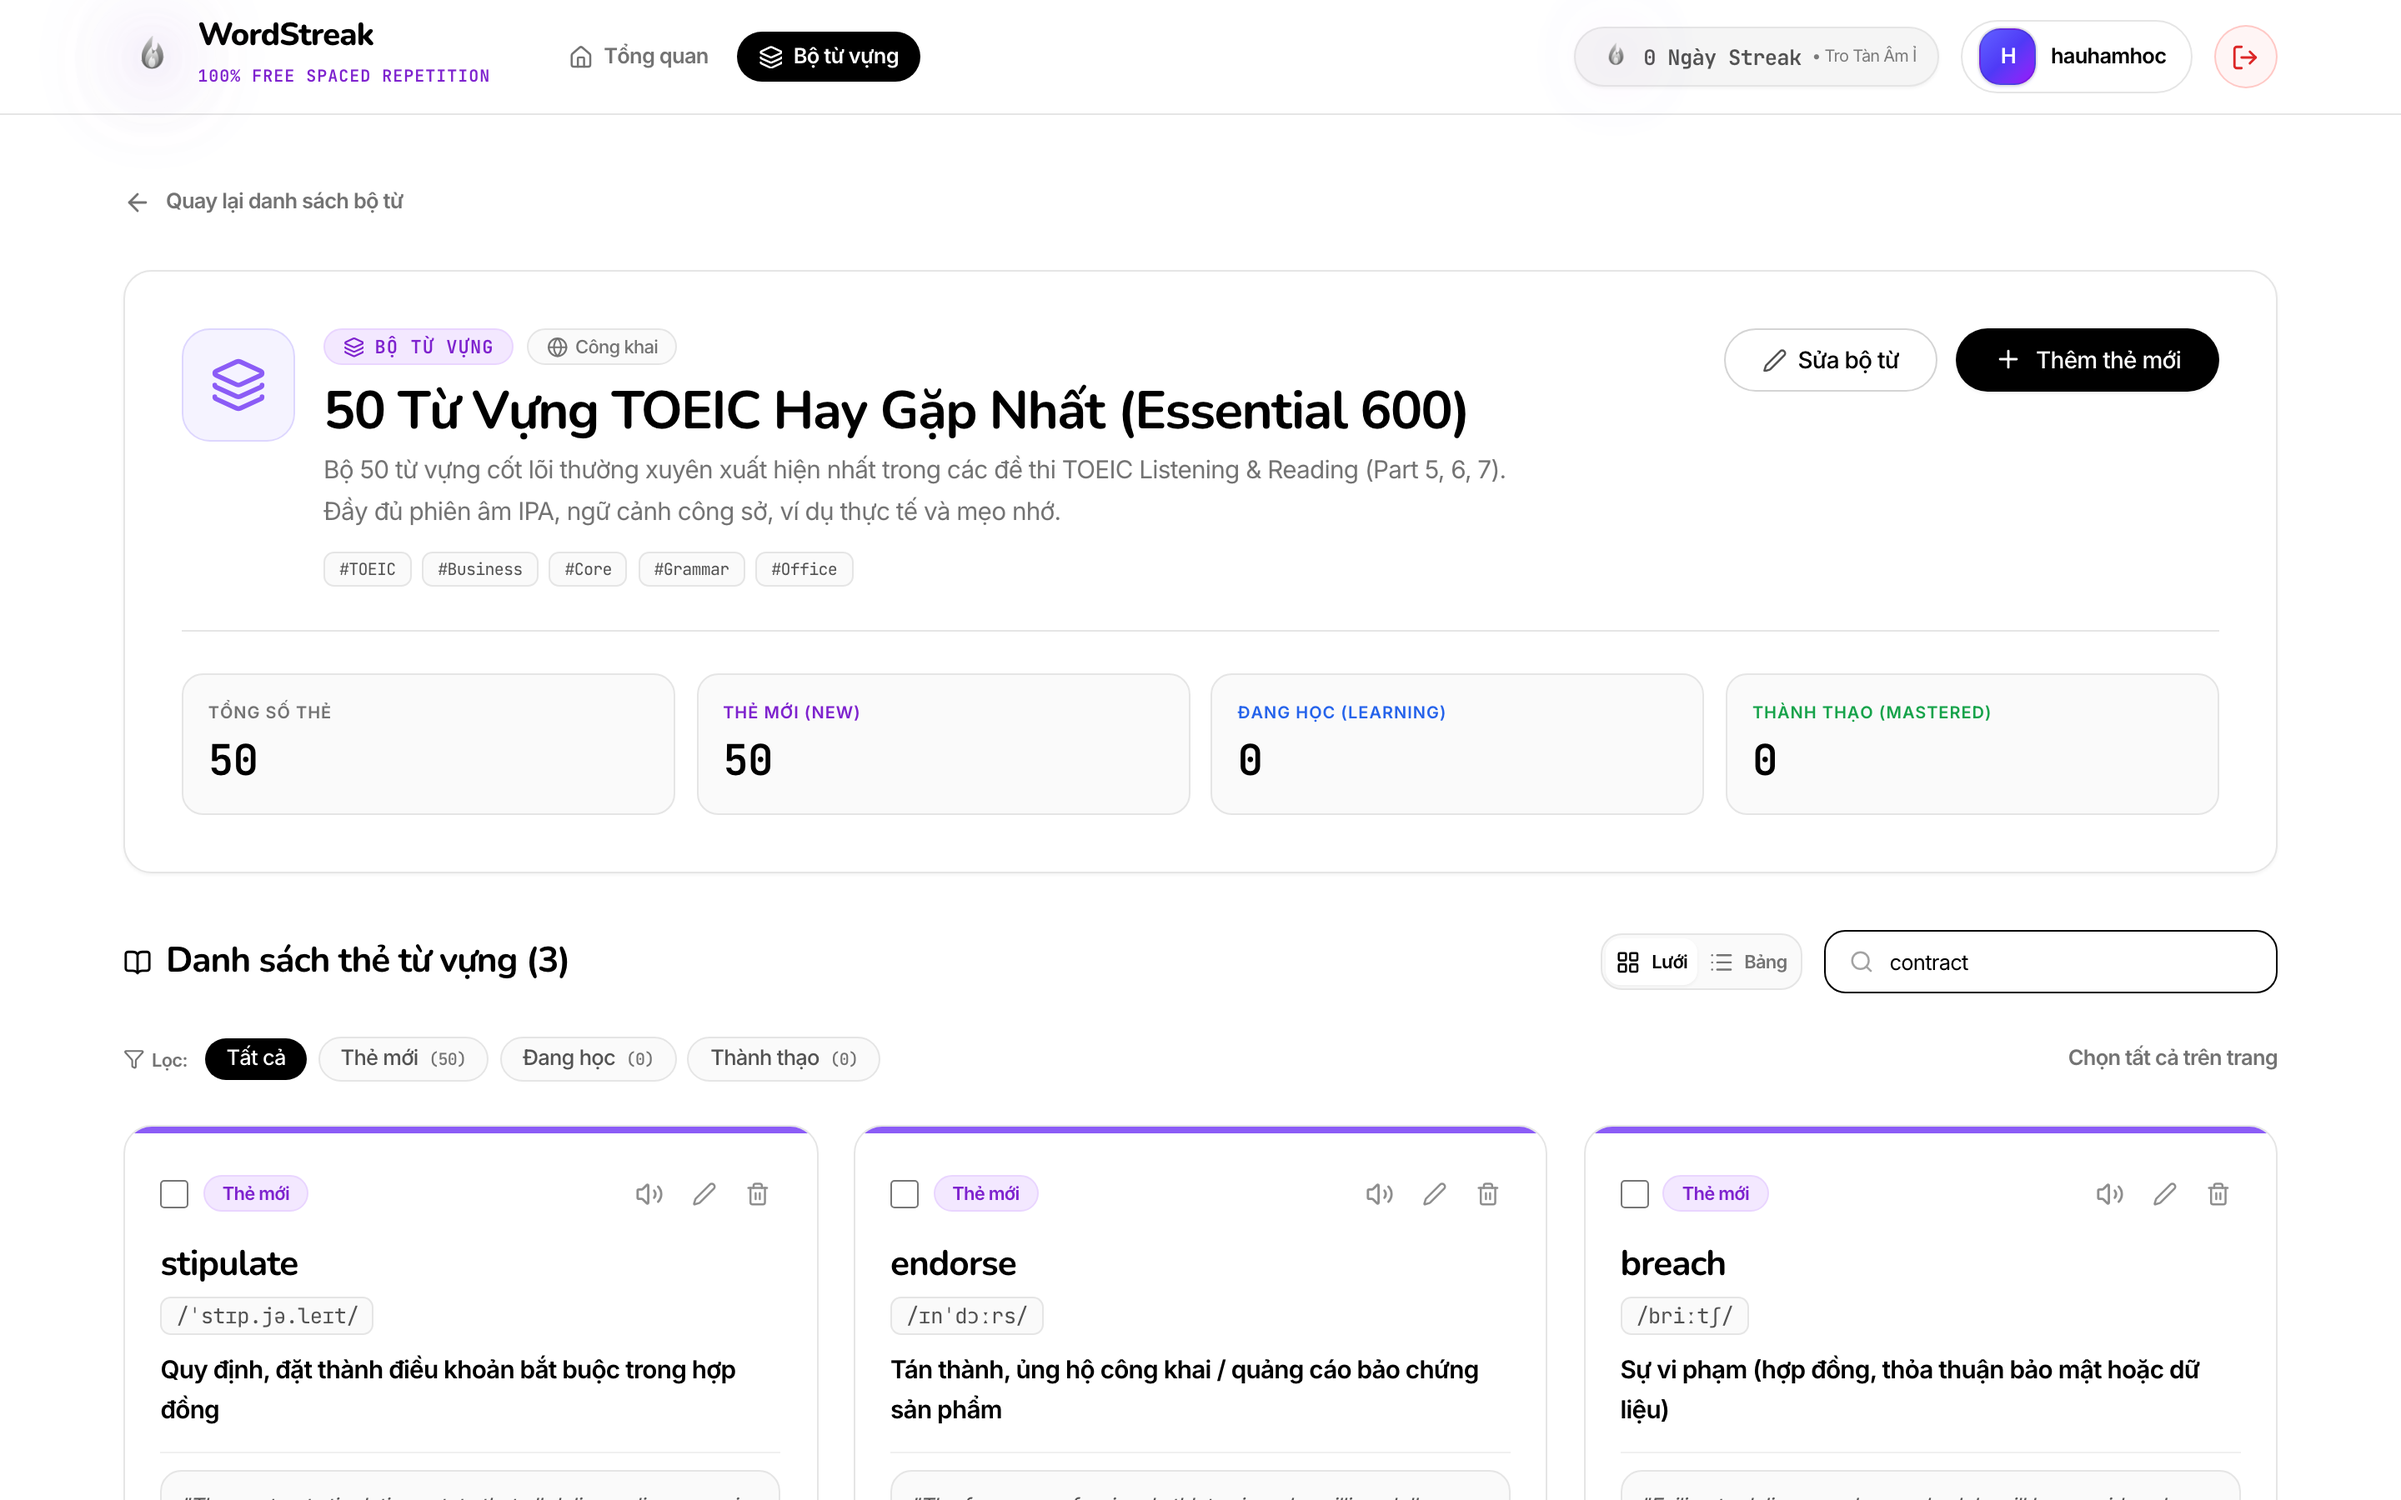
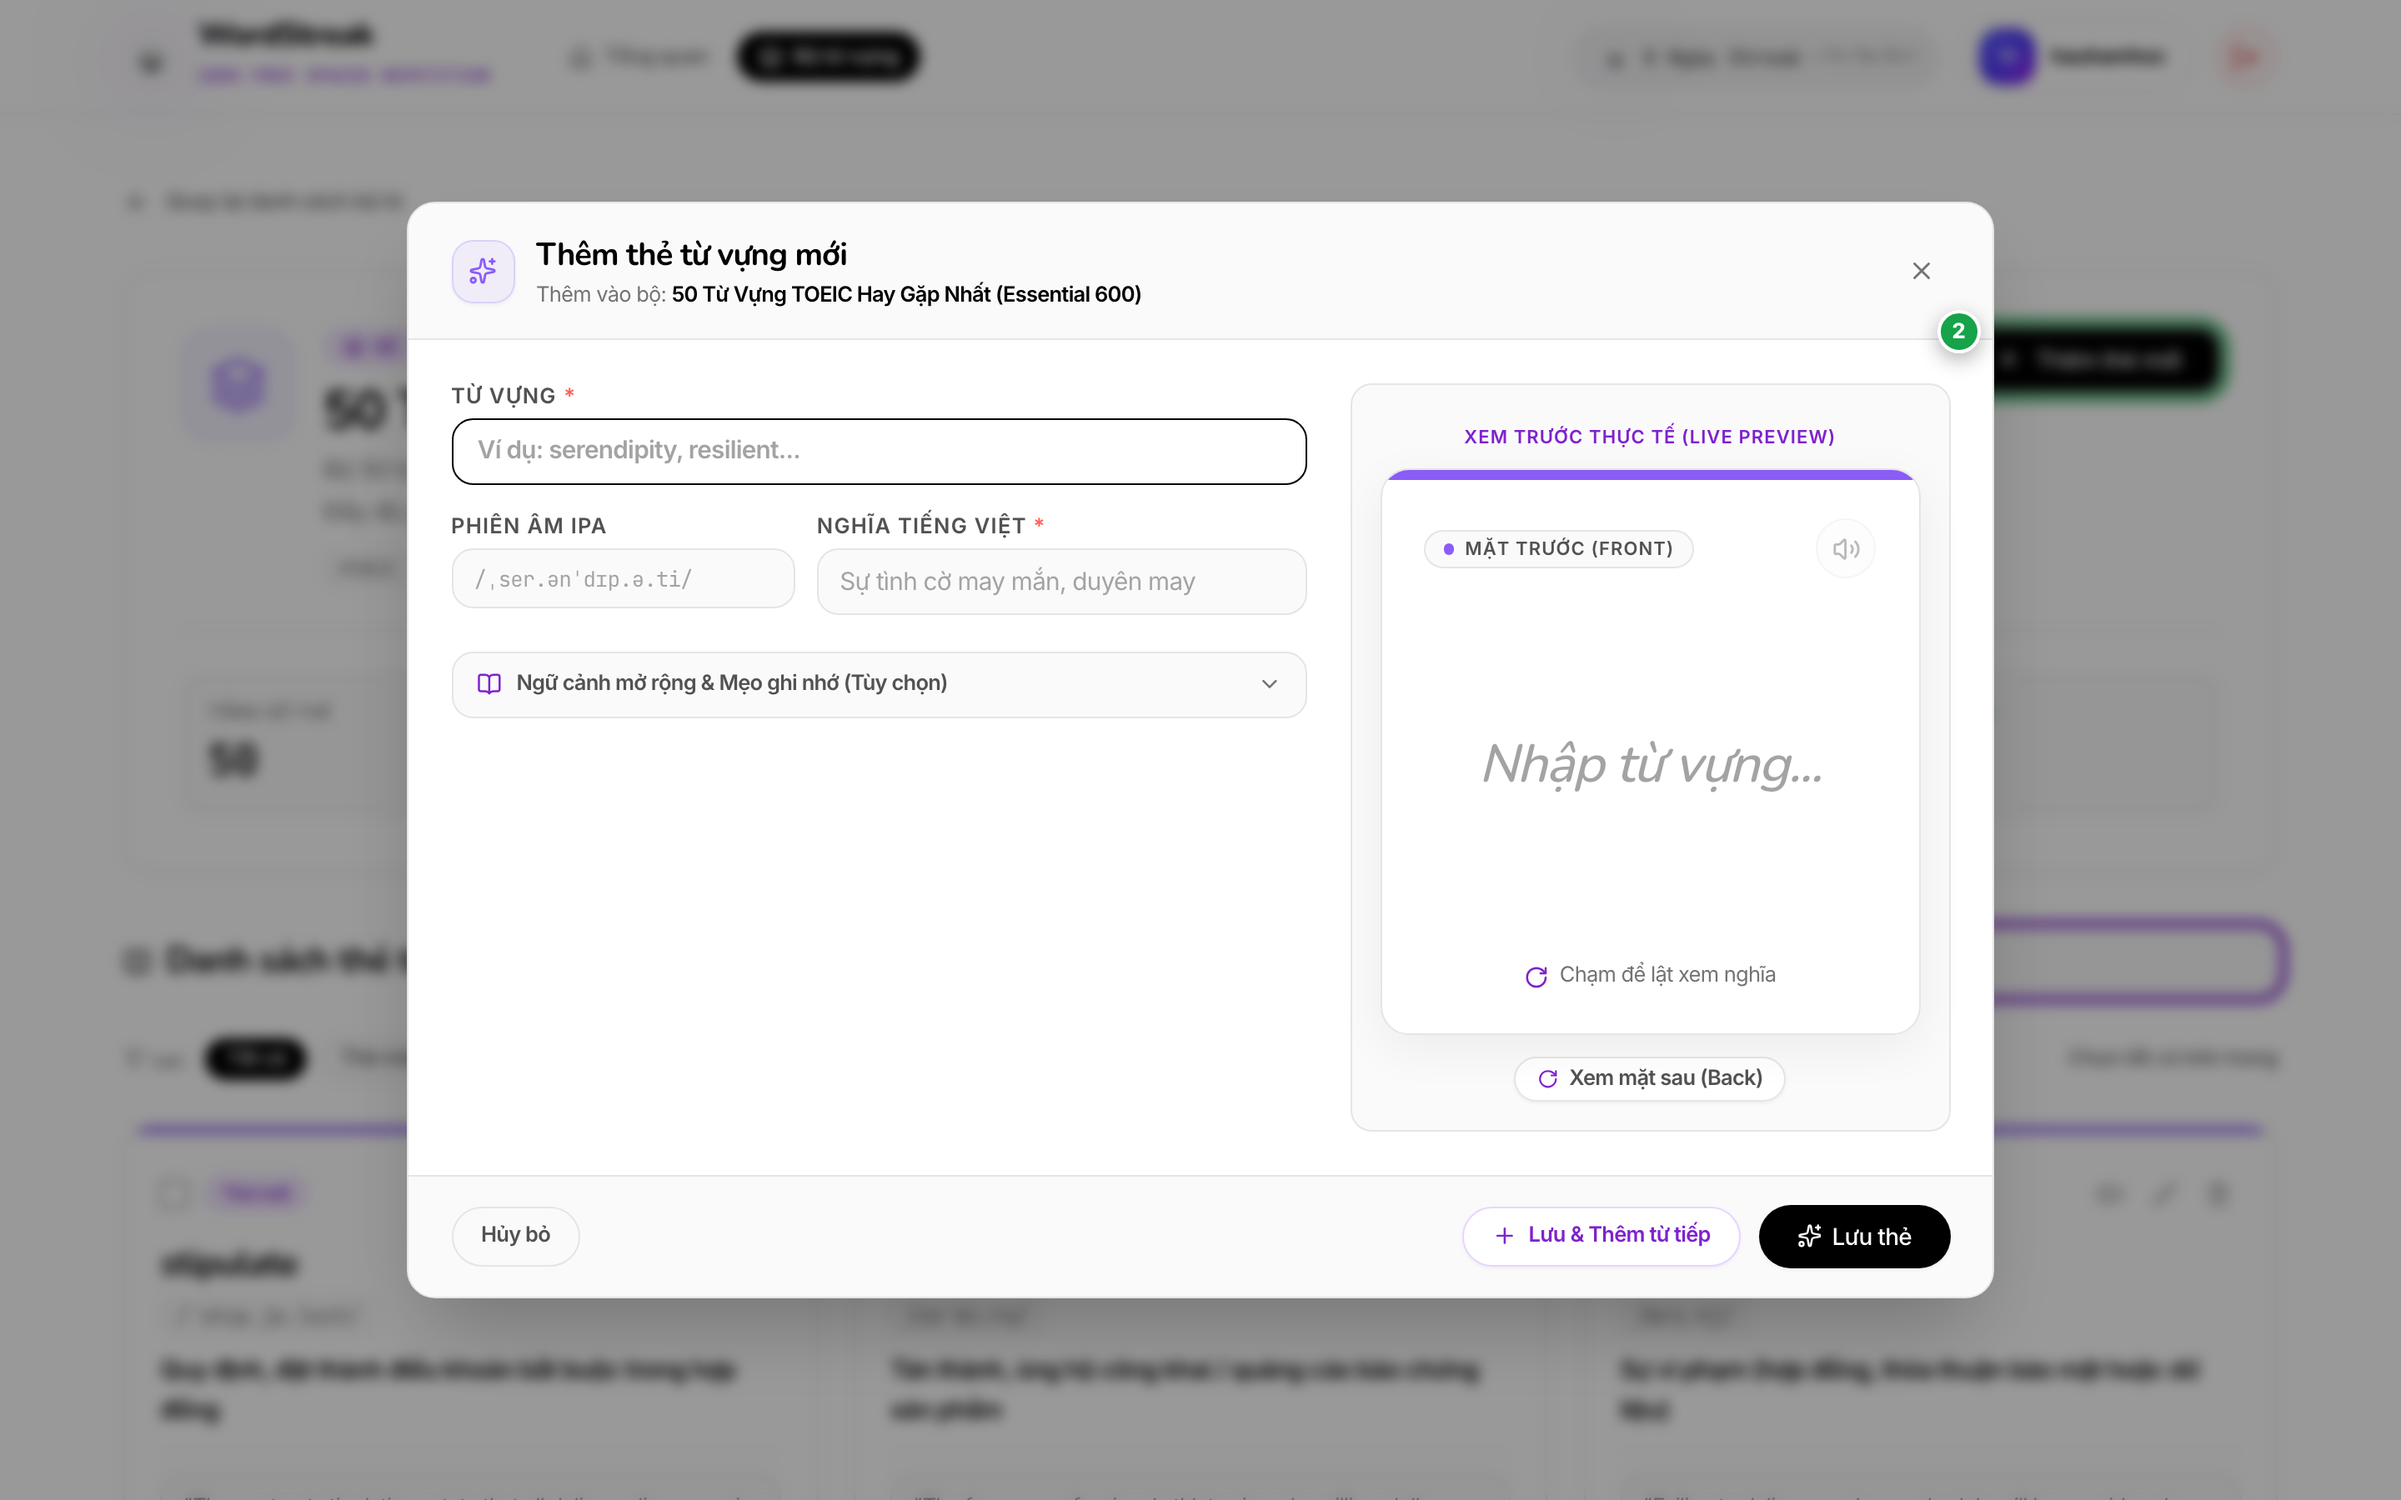
docs(user-guide): add numbered badge callouts and visual highlights to user guide

diff --git a/docs/user-guides/card-management.md b/docs/user-guides/card-management.md
@@ -2,7 +2,7 @@
 
 > **Đối tượng:** Người học WordStreak  
 > **Cập nhật lần cuối:** 2026-08-20  
-> **Trạng thái:** Đã kiểm thử trên giao diện thực tế (100% Real Screenshots)
+> **Trạng thái:** Đã kiểm thử trên giao diện thực tế (100% Real Screenshots with Visual Annotations & Badges)
 
 ---
 
@@ -18,9 +18,9 @@ Tính năng **Quản lý & Tra cứu Thẻ Từ vựng** giúp bạn dễ dàng 
 
 ![Chế độ Lưới Thẻ](./images/card-management/step-01-view-modes.png)
 
-- Khi mở chi tiết một Bộ từ vựng, mặc định danh sách từ sẽ hiển thị dưới dạng **Lưới thẻ Flashcard 3D**.
-- Mỗi thẻ hiển thị rõ từ vựng, phiên âm IPA, nghĩa tiếng Việt, vạch màu chủ đề và nhãn trạng thái học Spaced Repetition (`Mới`, `Đang học`, `Thành thạo`).
-- Bấm vào nút loa trên từng thẻ để nghe phát âm giọng đọc bản xứ.
+- **① Nút chuyển đổi chế độ xem**: Bấm để chuyển đổi nhanh giữa dạng **Lưới (Grid)** và dạng **Bảng (Table)**.
+- **② Thanh tìm kiếm nhanh**: Nhập từ vựng cần tra cứu ngay tại góc phải.
+- Mỗi thẻ Flashcard hiển thị trực quan từ vựng, phiên âm IPA, nghĩa tiếng Việt, vạch màu chủ đề và nhãn trạng thái học Spaced Repetition (`Mới`, `Đang học`, `Thành thạo`).
 
 ---
 
@@ -28,12 +28,12 @@ Tính năng **Quản lý & Tra cứu Thẻ Từ vựng** giúp bạn dễ dàng 
 
 ![Tìm kiếm và Lọc trạng thái](./images/card-management/step-02-search-filter.png)
 
-- **Tìm kiếm từ khóa**: Nhập từ tiếng Anh, nghĩa tiếng Việt hoặc câu ví dụ vào thanh tìm kiếm. Hệ thống sẽ lọc kết quả tức thì theo thời gian thực.
-- **Thẻ lọc trạng thái (Filter Chips)**: Bấm chọn các nhãn để lọc:
-  - **Tất cả**: Hiển thị toàn bộ từ vựng trong bộ từ.
-  - **Thẻ mới**: Các từ vựng vừa thêm vào, chưa trải qua phiên ôn tập nào.
-  - **Đang học**: Các từ đang trong quá trình ôn tập định kỳ.
-  - **Thành thạo**: Các từ bạn đã ghi nhớ vững chắc (khoảng cách ôn tập $\ge 21$ ngày).
+- **① Ô tìm kiếm từ khóa**: Nhập từ tiếng Anh (ví dụ: `contract`), nghĩa hoặc câu ví dụ. Kết quả sẽ tự động lọc theo thời gian thực.
+- **② Thẻ lọc trạng thái (Filter Chips)**: Bấm chọn các nhãn màu để lọc:
+  - **Tất cả**: Toàn bộ từ vựng trong bộ từ.
+  - **Thẻ mới**: Từ vừa thêm vào, chưa qua ôn tập Spaced Repetition.
+  - **Đang học**: Từ đang trong chu kỳ ôn tập định kỳ.
+  - **Thành thạo**: Từ đã ghi nhớ xuất sắc (khoảng cách ôn tập $\ge 21$ ngày).
 
 ---
 
@@ -41,9 +41,8 @@ Tính năng **Quản lý & Tra cứu Thẻ Từ vựng** giúp bạn dễ dàng 
 
 ![Chế độ Bảng Danh sách](./images/card-management/step-03-table-view.png)
 
-- Bấm nút **"Bảng"** ở góc phải thanh công cụ để chuyển sang giao diện bảng mật độ cao.
-- Chế độ bảng giúp bạn rà soát số lượng lớn từ vựng một cách nhanh chóng, bao gồm cột từ vựng, loại từ & phiên âm, nghĩa tiếng Việt, câu ví dụ, nhãn trạng thái và nút nghe phát âm trực tiếp trên từng dòng.
-- Lựa chọn chế độ xem (Lưới hoặc Bảng) sẽ được tự động lưu lại trên máy của bạn.
+- **① Hàng tiêu đề bảng (Table Header)**: Hiển thị rõ ràng các cột thông tin (Từ vựng, Loại từ & Phiên âm, Nghĩa tiếng Việt, Câu ví dụ, Trạng thái).
+- **② Nút Loa phát âm trực tiếp**: Bấm biểu tượng loa trên từng dòng để nghe giọng đọc bản xứ chuẩn xác ngay tức thì mà không cần mở form chỉnh sửa.
 
 ---
 
@@ -51,8 +50,8 @@ Tính năng **Quản lý & Tra cứu Thẻ Từ vựng** giúp bạn dễ dàng 
 
 ![Chọn nhiều thẻ và thanh công cụ](./images/card-management/step-04-bulk-actions.png)
 
-- Tích chọn ô vuông ở đầu các dòng từ vựng bạn muốn thao tác (hoặc tích chọn ô trên cùng để chọn tất cả từ trên trang).
-- Một **Thanh công cụ màu đen (Floating Toolbar)** sẽ nổi lên ở đáy màn hình hiển thị chính xác số lượng thẻ đã chọn kèm 3 chức năng:
+- **① Ô tích chọn (Checkbox)**: Tích chọn các thẻ bạn muốn thao tác (hoặc tích ô trên cùng để chọn toàn bộ thẻ trên trang).
+- **② Thanh công cụ màu đen (Floating Toolbar)**: Tự động nổi lên ở đáy màn hình khi có ít nhất 1 thẻ được chọn, cung cấp 3 thao tác:
   - 🗑 **Xóa**: Xóa các thẻ đã chọn khỏi bộ từ.
   - 📦 **Di chuyển**: Chuyển các thẻ sang bộ từ khác.
   - 🔄 **Đặt lại tiến độ**: Đưa các thẻ đã chọn về trạng thái Thẻ mới để học lại từ đầu.
@@ -63,9 +62,8 @@ Tính năng **Quản lý & Tra cứu Thẻ Từ vựng** giúp bạn dễ dàng 
 
 ![Cửa sổ di chuyển thẻ](./images/card-management/step-05-bulk-move-modal.png)
 
-1. Bấm nút **"Di chuyển"** trên thanh công cụ hàng loạt.
-2. Một cửa sổ sẽ xuất hiện, cho phép bạn chọn Bộ từ đích trong danh sách các bộ từ bạn đang sở hữu.
-3. Bấm **"Xác nhận di chuyển"** để hoàn tất. Toàn bộ tiến độ học Spaced Repetition của các từ này sẽ được giữ nguyên vẹn khi sang bộ từ mới.
+1. **① Chọn Bộ từ đích**: Chọn một bộ từ bạn sở hữu trong danh sách thả xuống.
+2. **② Xác nhận di chuyển**: Bấm nút màu xanh để chuyển thẻ. Toàn bộ lịch sử ôn tập Spaced Repetition của các từ này sẽ được giữ nguyên vẹn.
 
 ---
 
@@ -73,9 +71,7 @@ Tính năng **Quản lý & Tra cứu Thẻ Từ vựng** giúp bạn dễ dàng 
 
 ![Thanh phân trang](./images/card-management/step-06-pagination.png)
 
-- Ở chân trang, thanh phân trang hiển thị tổng số thẻ và số trang hiện tại.
-- Bạn có thể chuyển đổi số lượng thẻ hiển thị trên mỗi trang (`10`, `20`, `50` thẻ/trang).
-- Bấm số trang hoặc nút **Trước / Sau** để di chuyển mượt mà giữa các trang danh sách.
+- **① Thanh phân trang (Pagination Bar)**: Hiển thị tổng số thẻ và số trang hiện tại. Bạn có thể chọn số lượng thẻ trên mỗi trang (`10`, `20`, `50` thẻ/trang) và bấm nút **Trước / Sau** để di chuyển mượt mà.
 
 ---
 
